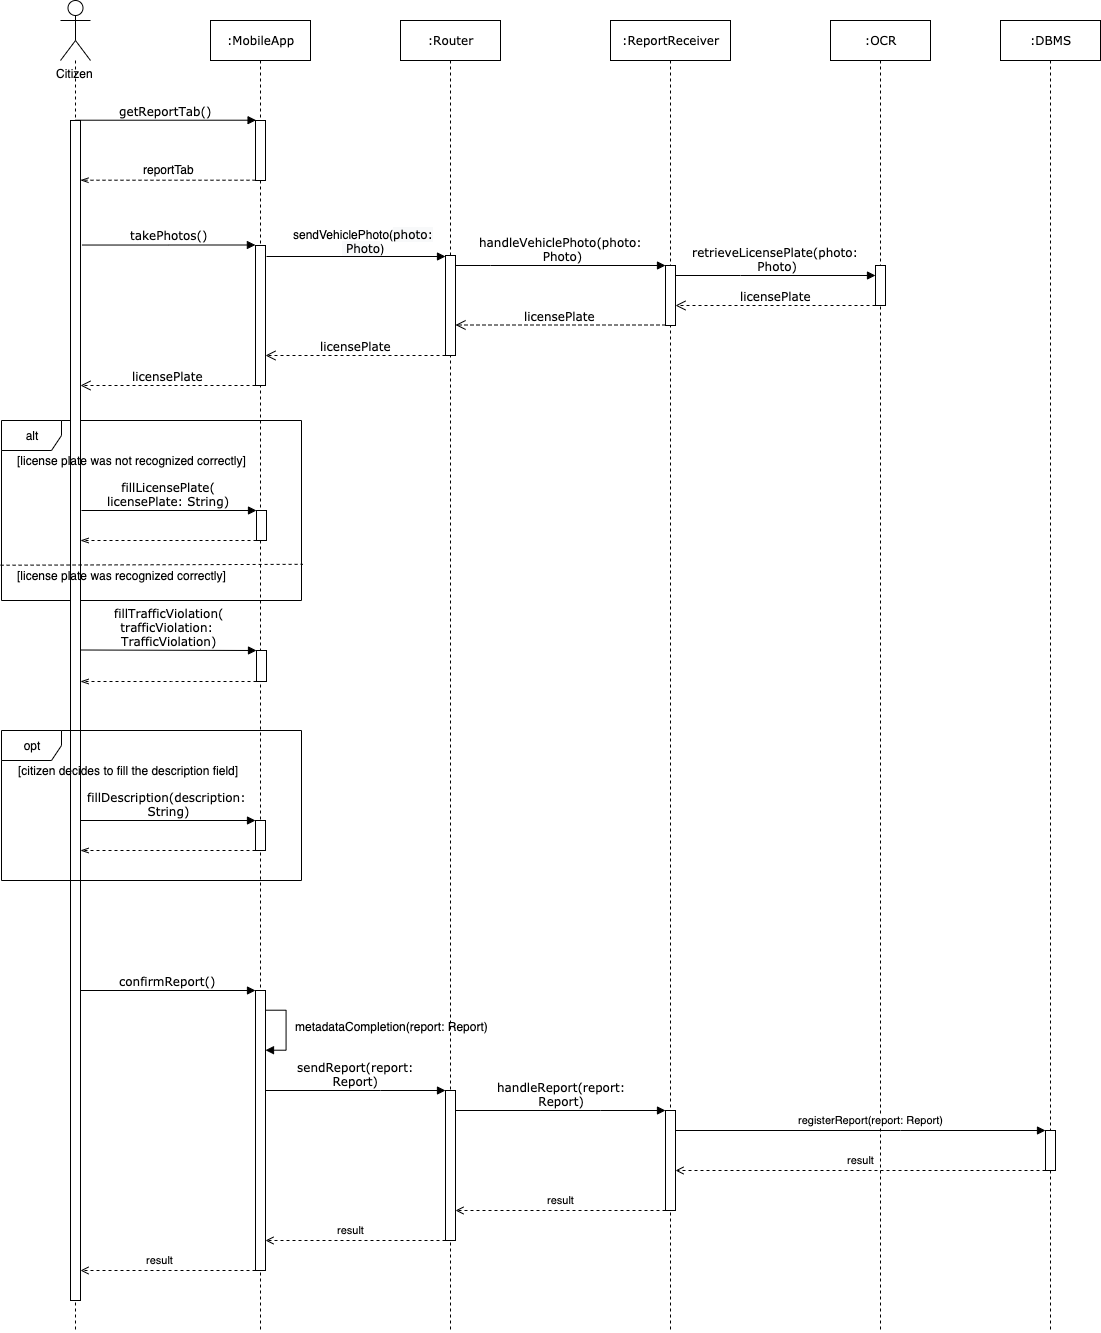
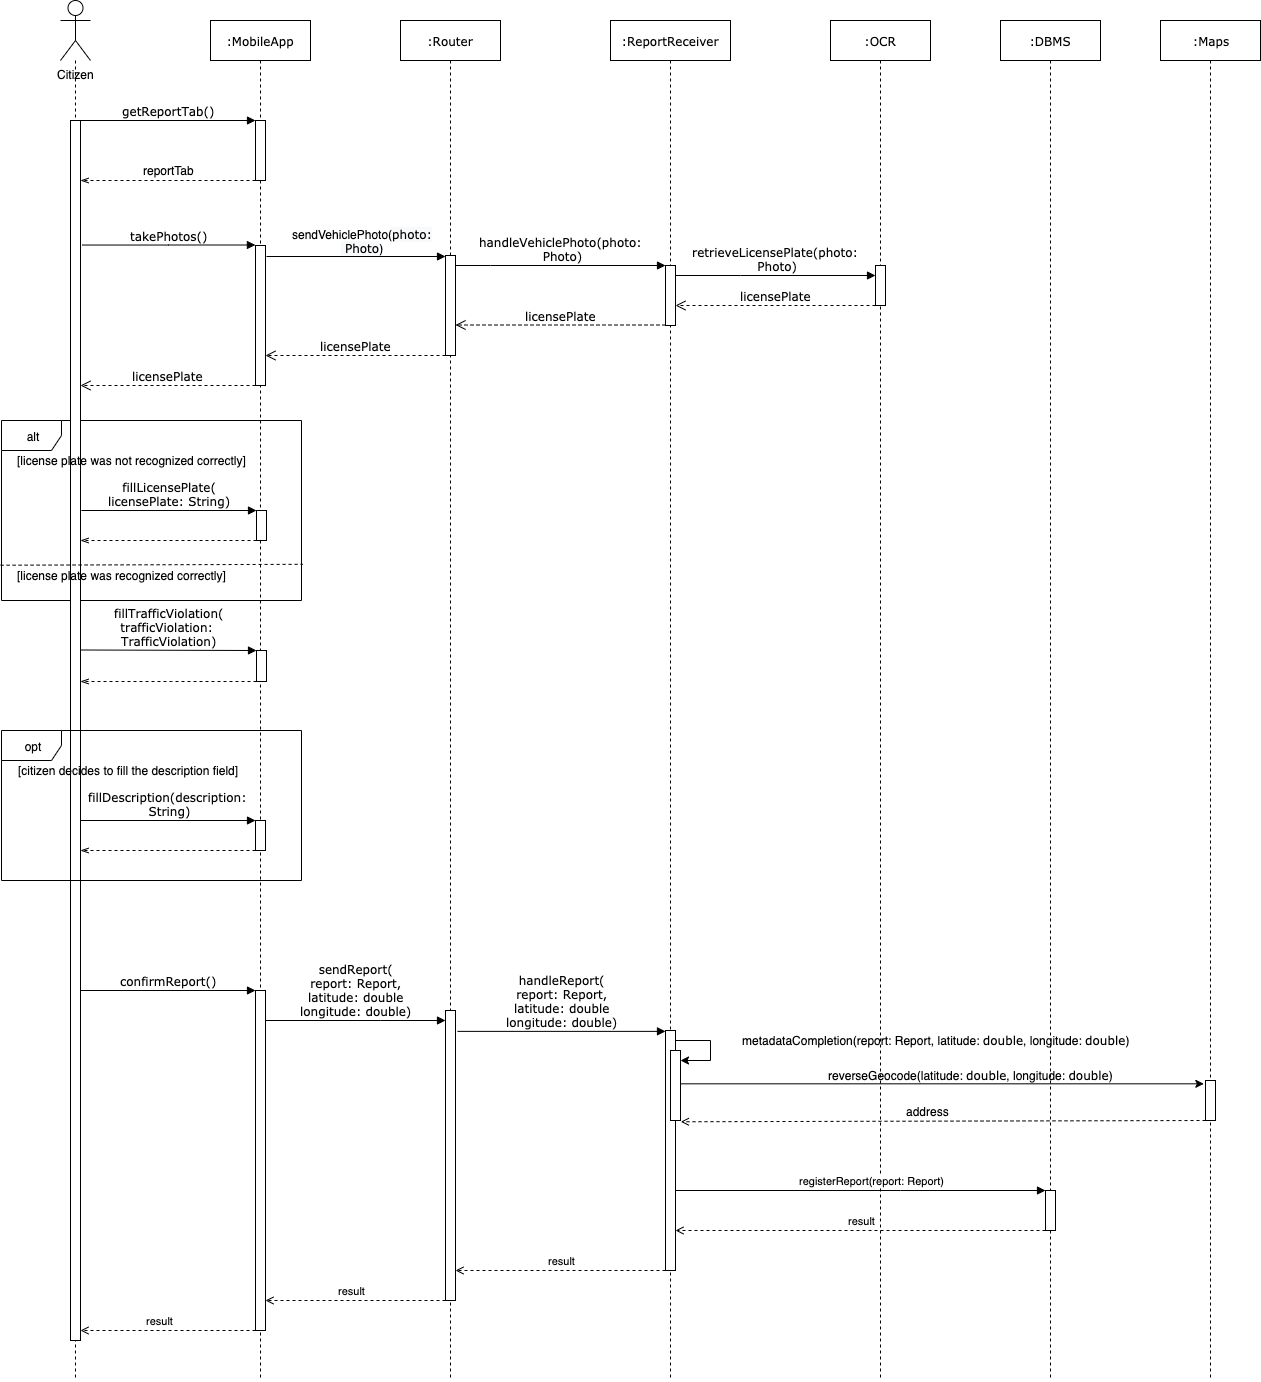
[DD] add ER diagram and description, fix other diagrams

diff --git a/Documentation/DD/Sections/RuntimeView.tex b/Documentation/DD/Sections/RuntimeView.tex
@@ -1,10 +1,11 @@
+The following sequence diagrams show the most important use cases of SafeStreets business. It's important to note that the application server keeps track of the sessions with each client and each session saves the ID of the user so that it can be used in later operations on the database. For instance, UserID is used to retrieve the city of the authorities and municipality when they want to visualize the violations and interventions, respectively, in their jurisdiction.
 \subsection{Report a violation}
 \begin{figure}[H]
 	\centering
 	\includegraphics[width=\linewidth]{Images/SequenceDiagramReportViolation}
 	\caption{Report a violation sequence diagram.}
 \end{figure}
-In this sequence diagram the use case in which a citizen reports a traffic violation is shown. After detecting a violation in the streets, the citizen selects the report tab from the main tab of the SafeStreets mobile app. In this case, the report tab has no information to retrieve from the SafeStreets server, which is the case of other services, so the app the tab immediately. At this point, the citizen uses the app's internal photo camera service to take photos of the violation, making sure that the first photo contains the transgressor's vehicle with its license plate. After the citizen has completed this first part of the report, the app sends the first photo to the 'Router' component, which forwards it to the 'ReportReceiverManager'. This component uses the external OCR service to recognize the license plate of the vehicle from the photo it received. Then 'ReportReceiver' returns the license plate to the 'Router', and this sends the license plate back to the mobile app that updates the license plate field. At this point the citizen checks whether the license plate was recognized correctly, if not he inserts it manually. Then he chooses the traffic violation type, and he optionally fills the description field. The citizen confirms the report, and the mobile app completes the report with metadata such as timestamp, GPS coordinates, user ID, and a 'pending' status. Finally, the mobile app sends the report to 'Router', which forwards it to 'ReportReceiverManager' in order to register the report in the system's database.
+In this sequence diagram the use case in which a citizen reports a traffic violation is shown. After detecting a violation in the streets, the citizen selects the report tab from the main tab of the SafeStreets mobile app. In this case, the report tab has no information to retrieve from the SafeStreets server, which is the case of other services, so the app the tab immediately. At this point, the citizen uses the app's internal photo camera service to take photos of the violation, making sure that the first photo contains the transgressor's vehicle with its license plate. After the citizen has completed this first part of the report, the app sends the first photo to the 'Router' component, which forwards it to the 'ReportReceiverManager'. This component uses the external OCR service to recognize the license plate of the vehicle from the photo it received. Then 'ReportReceiver' returns the license plate to the 'Router', and this sends the license plate back to the mobile app that updates the license plate field. At this point the citizen checks whether the license plate was recognized correctly, if not he inserts it manually. Then he chooses the traffic violation type, and he optionally fills the description field. The citizen confirms the report, and the mobile app sends the report with GPS coordinate to Router, which forwards it to 'ReportReceiverManager'. This component completes the report with metadata such as timestamp, GPS coordinates and address, user ID, and a 'pending' status. Finally, it registers the report in the system's database.
 
 \subsection{Analyze aggregate data}
 \begin{figure}[H]
@@ -28,4 +29,4 @@ In this sequence diagram the use case in which an authority validates a violatio
 	\includegraphics[width=\linewidth]{Images/SequenceDiagramSuggestionEvaluation}
 	\caption{Suggestion evaluation sequence diagram.}
 \end{figure}
-In this sequence diagram the use case in which a municipality generates and evaluates the interventions is shown. After the municipality has selected the intervention tab, the webapp of SafeStreets sends an intervention tab request containing the city of the municipality to 'Router'. Then 'Router' forwards the request to the 'InterventionManager', which retrieves the previously generated interventions from the system's database and sends back to the webapp through the 'Router' component. At this point, the municipality can decide whether to generate new reports or not. If it decides not to generate new interventions, it can just visualize the previously generated internvetions, if any present, or even evaluate them. Whereas if the municipality decides to generate new interventions, the system sends a generate intervention request, containing the city of the municpality, to 'Router', which forwards it to 'InterventionManager'. This component sends an integrate data request to 'MunicipalityDataIntegrationManager' to check whether the municipality provided an API or not. If no API is present then this data integration process is aborted, otherwise it tries to retrieve new data from the municipality. If the data provided by the municipality does not conform with SafeStreets API an error is generated, and 'InterventionManager' proceeds to generate interventions without any data integration, otherwise the new data is inserted into SafeStreets' database. Finally, 'InterventionMangaer' retrieves all relevant data from the database and generates a possible list of interventions that is stored in the database and sent back to the client via 'Router'. Now the municipality can inspect the newly generated interventions and decide whether to rate them or not. If it decides to rate them, it needs to give a score (e.g. between 0 and 5) as a measure of the quality of the suggestions. The score with the ID of the intervention is sent to 'Router', which forwards it to 'InterventionManager' to update the database with the new information. An update is then sent back to the client to keep the data between the client and the server synchronized.	
+In this sequence diagram the use case in which a municipality generates and evaluates the interventions is shown. After the municipality has selected the intervention tab, the webapp of SafeStreets sends an intervention tab request containing the city of the municipality to 'Router'. Then 'Router' forwards the request to the 'InterventionManager', which retrieves the previously generated interventions from the system's database after checking that the user is  and sends back to the webapp through the 'Router' component. At this point, the municipality can decide whether to generate new reports or not. If it decides not to generate new interventions, it can just visualize the previously generated internvetions, if any present, or even evaluate them. Whereas if the municipality decides to generate new interventions, the system sends a generate intervention request, containing the city of the municpality, to 'Router', which forwards it to 'InterventionManager'. This component sends an integrate data request to 'MunicipalityDataIntegrationManager' to check whether the municipality provided an API or not. If no API is present then this data integration process is aborted, otherwise it tries to retrieve new data from the municipality. If the data provided by the municipality does not conform with SafeStreets API an error is generated, and 'InterventionManager' proceeds to generate interventions without any data integration, otherwise the new data is inserted into SafeStreets' database. Finally, 'InterventionMangaer' retrieves all relevant data from the database and generates a possible list of interventions that is stored in the database and sent back to the client via 'Router'. Now the municipality can inspect the newly generated interventions and decide whether to rate them or not. If it decides to rate them, it needs to give a score (e.g. between 0 and 5) as a measure of the quality of the suggestions. The score with the ID of the intervention is sent to 'Router', which forwards it to 'InterventionManager' to update the database with the new information. An update is then sent back to the client to keep the data between the client and the server synchronized.	

diff --git a/Documentation/DD/Sections/ComponentInterfaces.tex b/Documentation/DD/Sections/ComponentInterfaces.tex
@@ -1,14 +1,24 @@
 \begin{figure}[H]
 	\centering
-	\includegraphics[width=\linewidth]{Images/ComponentInterfaces}
-	\caption{Component interfaces.}
+	\includegraphics[width=\linewidth]{Images/CitizenComponentInterfaces}
+	\caption{Citizen component interfaces.}
 \end{figure}
-The above figure shows the component interfaces of the application server presented in the Component View section. The SafeStreetsAPI interface provides all the methods needed to access the services offered by the application server. Each method of this interface is associated by the 'Router' component with an internal handler interface provided by the component responsible of the requested service. Each internal interface handles the incoming requests and communicates with the DBMS for database modification. In the following, a description for each one of these interfaces is provided:
+\begin{figure}[H]
+	\centering
+	\includegraphics[width=\linewidth]{Images/AuthorityComponentInterfaces}
+	\caption{Authority component interfaces.}
+\end{figure}
+\begin{figure}[H]
+	\centering
+	\includegraphics[width=\linewidth]{Images/MunicipalityComponentInterfaces}
+	\caption{Municipality component interfaces.}
+\end{figure}
+The above figures show the component interfaces of the application server that are actually used for each kind of user. The SafeStreetsAPI interface provides all the methods needed to access the services offered by the application server. Each method of this interface is associated by the 'Router' component with an internal handler interface provided by the component responsible of the requested service. Each internal interface handles the incoming requests and communicates with the DBMS for database modification. In the following, a description for each one of these interfaces is provided:
 \begin{itemize}
 	\item HandleSignUp: this interface is responsible for the sign up of any kind of user; in particular if the user is an authority or a municipality, it verifies its identity by checking their PEC address with external an PEC API.
 	\item HandleLogin: this interface is responsible for authenticating the access of a user and establishing a connection session.
 	\item HandleReportViolationData: this interface is responsible for recognizing the license plate of incoming vehicle photos, using an external OCR API; it also receives complete reports from the clients and stores them in the databases.
-	\item HandleReportVisualization: this interface is responsible of sending all data regarding the reports of the requesting citizen user.
+	\item HandleReportVisualization: this interface is responsible for sending all data regarding the reports of a specific citizen user or just just one single report.
 	\item HandleDataAnalsysis: this interface is responsible for retrieving data that satisfies the filters of the incoming data analysis requests; for each kind of requesting user it sends back different amount of data for privacy security reasons, in fact both kinds of users can retrieve the location, time and type of violation of the reported transgressor, but only the authorities can retrieve the license plates, whereas citizen cannot.
 	\item HandleReportValidation: this interface is responsible for receiving violation validations from authority users and update the database accordingly, and also sending the reports in the jurisdiction of the requesting authority.
 	\item HandleIntervention: this interface is responsible for sending the previously generated reports and generating new interventions when requested by the municipality, and it also receives intervention evaluations to update the database accordingly.

diff --git a/Documentation/DD/Section/IIT_TestingPlan.tex b/Documentation/DD/Section/IIT_TestingPlan.tex
@@ -1,3 +1,5 @@
-During the implementation, the system's components must be progressively tested and integrated together, but first of all each component must be unit tested, so that it's possible to recognize if a component is bugged or faulty. Integration tests will be performed after unit tests, providing the certainty that the flow of messages through the interfaces and the final output of the operations are consistent with the expected results.
+During the implementation, given the relatively small components we apply a bottom-up test strategy. The system's components must be progressively tested and integrated together, but first of all each component must be unit tested, so that it's possible to recognize if a component is bugged or faulty. Integration tests will be performed after unit tests, providing the certainty that the flow of messages through the interfaces and the final output of the operations are consistent with the expected results.
 
-As mentioned before, a small database with fictional data should be implemented in first steps of implementation, so that it's possible to test the component more easily because the data contained in the database and so the output of the operation can be known before execution. It's important that tests revert the operations performed on this test database after the test is completed, otherwise the modification will alter the results of successive runs of test suites.
+As mentioned before, a small database with fictitious data should be implemented in first steps of implementation, so that it's possible to test the component more easily and as soon as possible to discover any possible issues. It's important that tests revert the operations performed on this test database after the test is completed, otherwise the modification will alter the results of successive runs of test suites.
+
+Once the whole system is integrated, a final system test must be performed to verify the functional and non-functional requirements of the system. In particular, given the possibility of huge requests on the servers when the system is deployed, it is important to carry out a performance testing to identify bottlenecks affecting [response time, utilization, throughput].

diff --git a/Documentation/DD/Sections/ComponentView.tex b/Documentation/DD/Sections/ComponentView.tex
@@ -1,5 +1,7 @@
 \begin{figure}[H]
-	\includegraphics[width=\linewidth]{componentsDiagram.png}
+	\centering
+	\includegraphics[width=.98\linewidth]{componentsDiagram.png}
+	\caption{Components diagram.}
 \end{figure}
 TODO: Change names of the interfaces and complete it
 
@@ -69,3 +71,13 @@ Component descriptions:
 	\item \textbf{MunicipalityDataIntegrationManager:}
 	module that allows the integration of violation data from any municipality API structured according to SafeStreets API. It is accessed by the InterventionGenerationManager when a municipality request the generation of a list of possible interventions to do in its territory. The module checks if the municipality that made the request has provided an API for accessing its data, if present in the database it requests all violation data that have a date later than the one indicated in last intervention generation timestamp (gets all data if no intervention generation was made by the municipality in the past), and integrate it in SafeStreets database. When the process is done the manager notifies the InterventionGenerationManager, that waits a response from it before initiating the intervention generation. Note that if no API is associated to municipality the integration will be immediately aborted, instead if the municipality's API endpoints or its provided data has not the structure expected the MunicipalityDataIntegrationManager will return an error to the InterventionGenerationManager, that will continue without the data integration using only data contained in SafeStreets database (the error is reported to the user in this case).
 \end{itemize}
+
+
+\begin{figure}[H]
+	\centering
+	\includegraphics[width=\linewidth]{Images/ER_diagram.png}
+	\caption{Entity-relationship diagram.}
+\end{figure}
+\textbf{Entity-relationship diagram}\\
+The above entity-relationship diagram describes the conceptual model of the database. In comparison with the class diagram, the main entities user, report and intervention have UserID, ReportID, and InterventionID primary key attributes, respectively, that are used for a faster lookup on the database.
+

diff --git a/Documentation/DD/Sections/Overview.tex b/Documentation/DD/Sections/Overview.tex
@@ -1,5 +1,7 @@
 \begin{figure}[H]
+	\centering
 	\includegraphics[width=\linewidth]{tier.png}
+	\caption{Tier architecture.}
 \end{figure}
 
 SafeStreets system is organized as a three-tier layer, a standard design architecture used to provide a good level of security and performance thanks to subdivision of the tasks between the three tiers. Each tier runs on a different machine (or a group of machines with same structure), so that every tier is responsible of a specific task and the computational work is splitted between different machines, optimizing performances. This also improve the security of the system, because user devices needs to pass through the application server to access the data and have no way to directly access to it. 
@@ -11,7 +13,9 @@ Application tier is composed by a replicated array of application servers, to sc
 Data tier task is to provide access to data to application tier, so that the manager modules can interrogate the database and also store or modify data in a reliable way. Data tier is composed by a single server, with cloned databases that share memory disks. This structure helps in maintaining high performances while keeping the data safe from possible hardware issues or data loss.
 
 \begin{figure}[H]
+	\centering
 	\includegraphics[width=\linewidth]{systemArchitecture.png}
+	\caption{System architecture.}
 \end{figure}
 
 Tier are separated by firewalls to improve the security of the system. Firewall between application server and client is a must to provide a layer of protection from fraudulent users and hackers, because application server could be accessed by anyone external to the system. The firewall between application server and database server isn't strictly necessary but can be used to negate all accesses that don't originate from the cluster of application servers, providing an additional layer of protection from fraudulent accesses.

diff --git a/Documentation/DD/Sections/DeploymentView.tex b/Documentation/DD/Sections/DeploymentView.tex
@@ -1,7 +1,9 @@
 This section focuses on explaining how the system will be deployed, describing the machines involved in the system and what components they will run or contain.
 
 \begin{figure}[H]
+	\centering
 	\includegraphics[width=\linewidth]{deploymentDiagram.png}
+	\caption{Deployment diagram.}
 \end{figure}
 
 In the presentation tier, clients devices will run mobile apps on both Android and iOS smartphones, instead personal computers can run the web application if the user has access to a municipality's account. We decided to implement mobile apps for smartphones to cover citizens and authorities needs of interacting with SafeStreets system in an easy and fast way, because both categories of users will use the apps during their normal routines and it's nowadays common to have a smartphone with you all the time. For municipality instead we choose to implement a web application because a municipality member will probably use the software in his workplace, so using a computer is optimal for the task and having a larger layout with a better level of details when retrieving data is surely an appreciated feature. A web application is preferred to a website because municipalities will be interested in data research and possible improvements of unsafe areas, so the possibility to filter content and dynamically display and retrieve data is a must. To access the web application, the only requirements is to have a web browser that supports AJAX, so no restrictive requirements are necessary for running it, making it really easy to integrate the use of the software in workflows of every municipality.

diff --git a/Documentation/DD/Sections/EffortSpent.tex b/Documentation/DD/Sections/EffortSpent.tex
@@ -22,11 +22,11 @@ Andrea Huang:
     Document section & Hours \\
     \hline
      Introduction & 0\\
-     Architectural design & 9.25\\
+     Architectural design & 13.25\\
      User interface design & 0\\
      Requirement traceability & 0\\
-     Implementation, integration and test plan & 0\\
+     Implementation, integration and test plan & 1\\
      \hline
-     Total & 9.25\\
+     Total & 13.25\\
      \hline
 \end{tabular}
